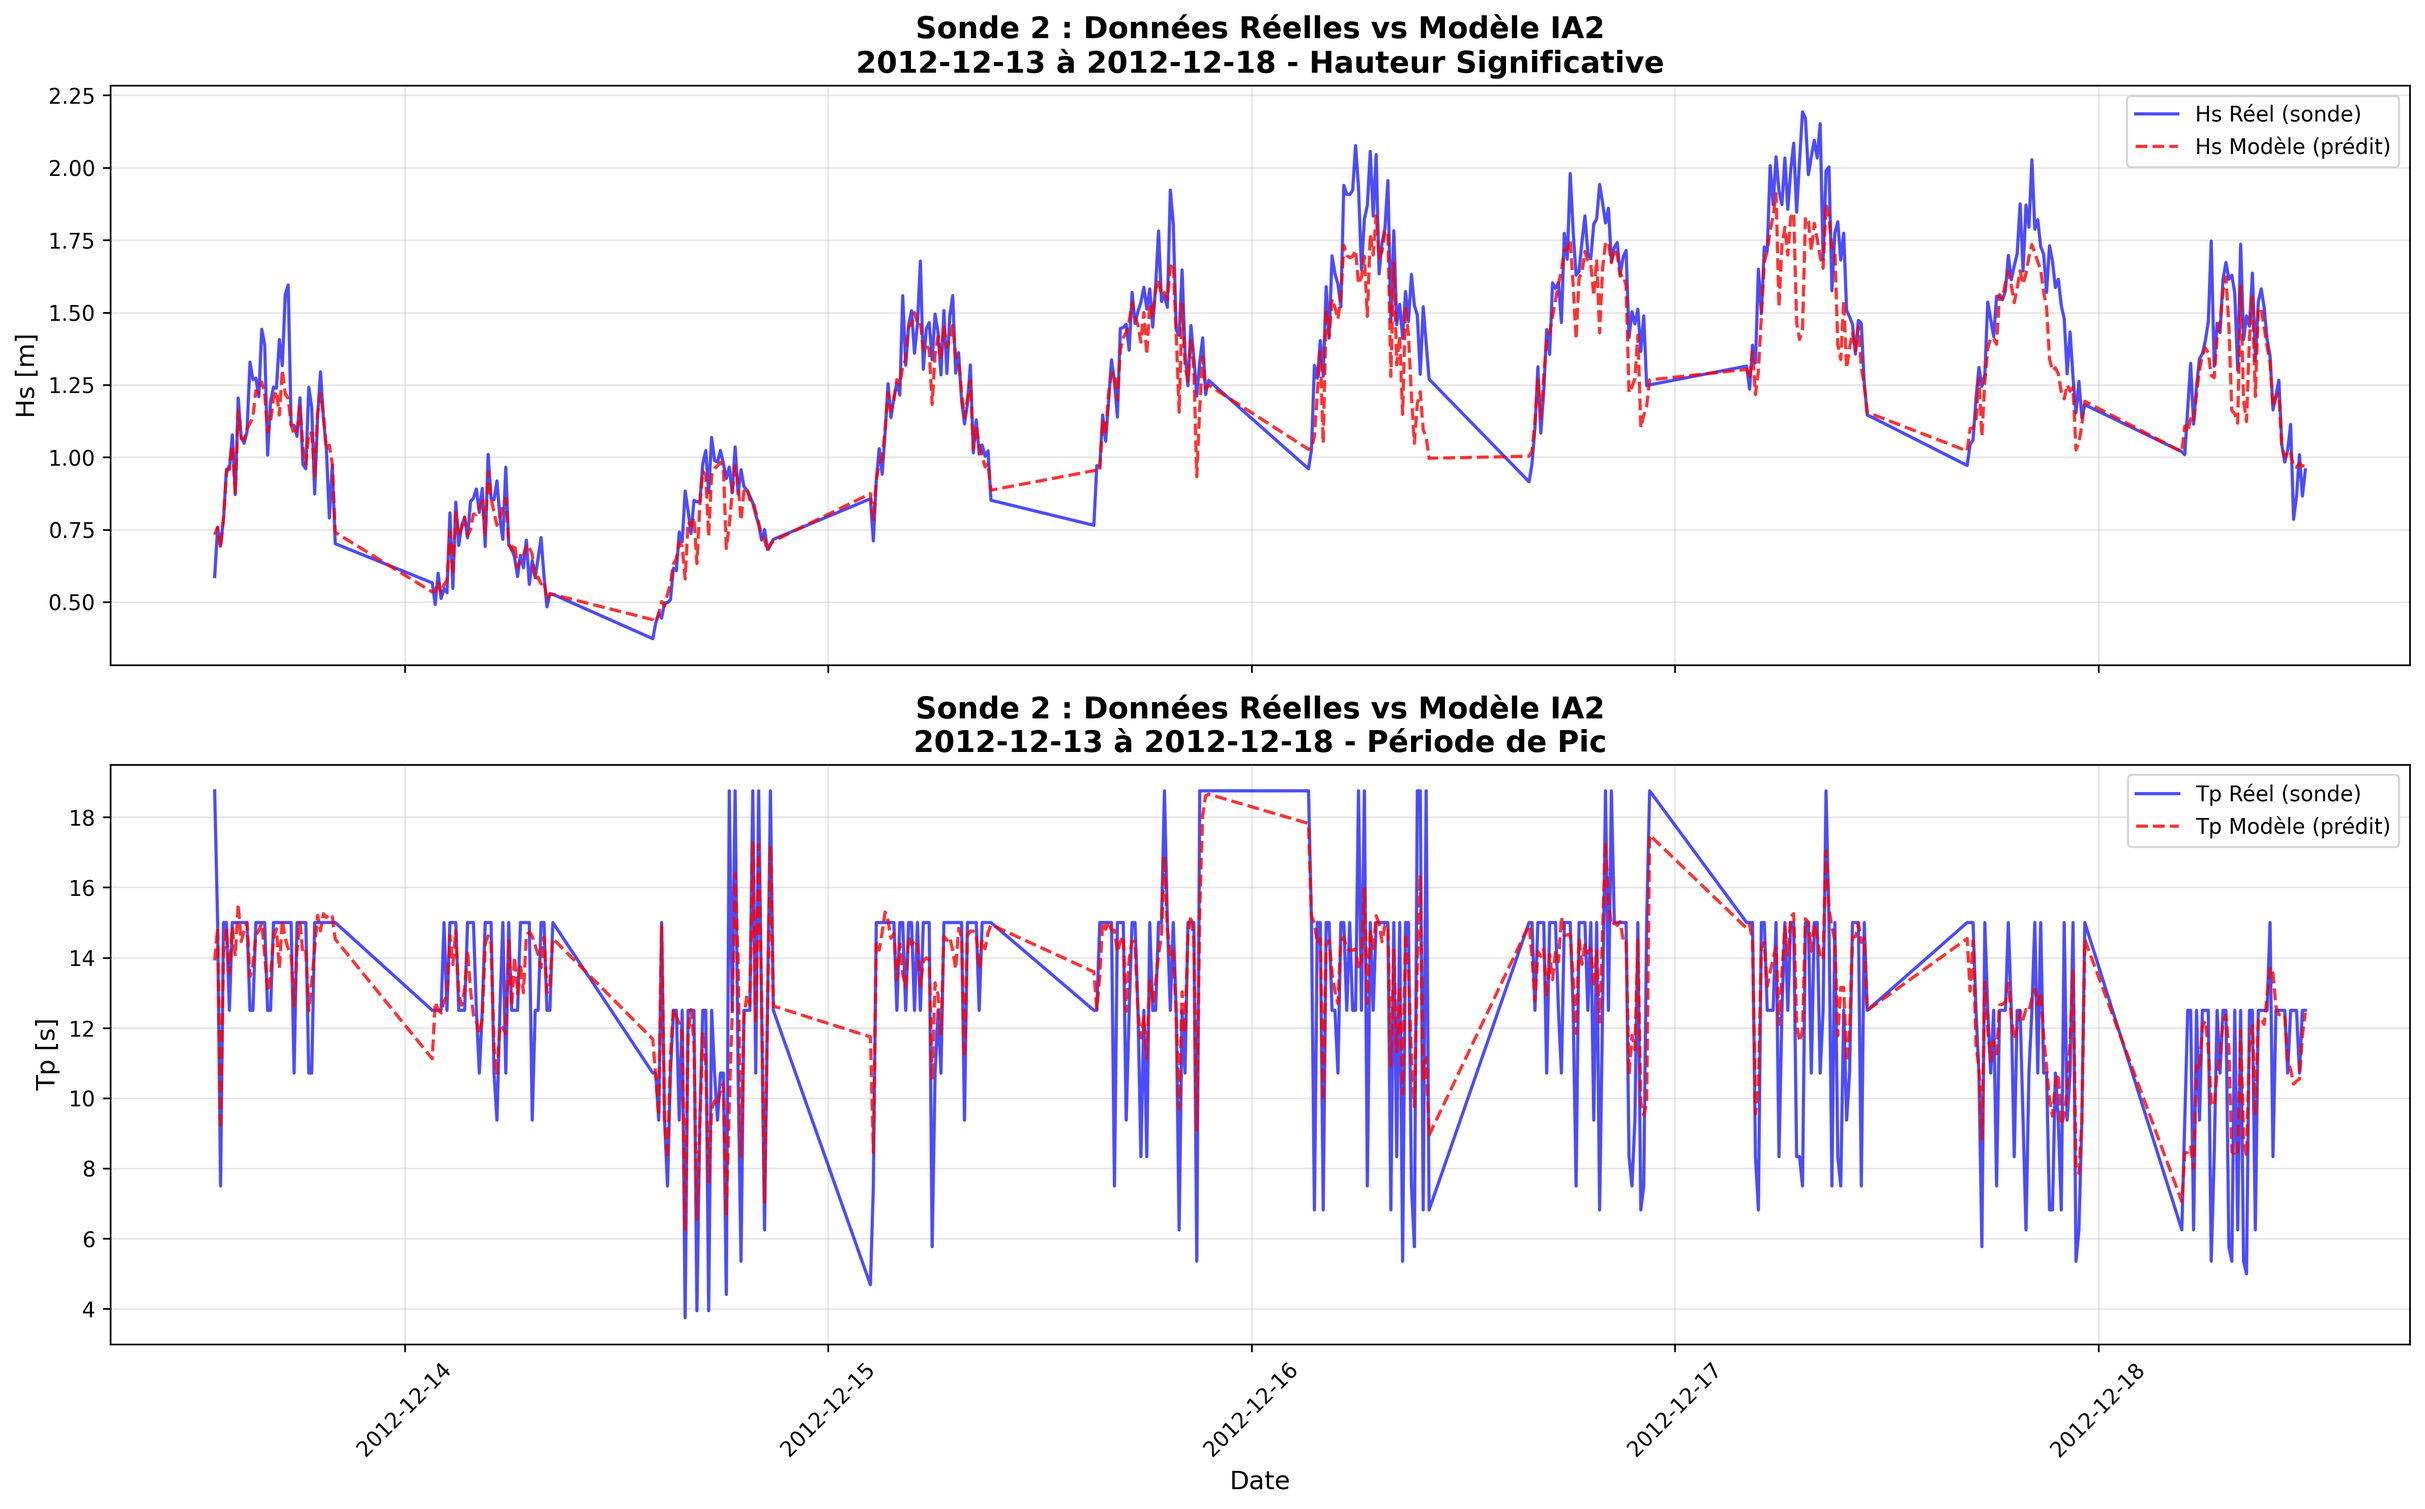
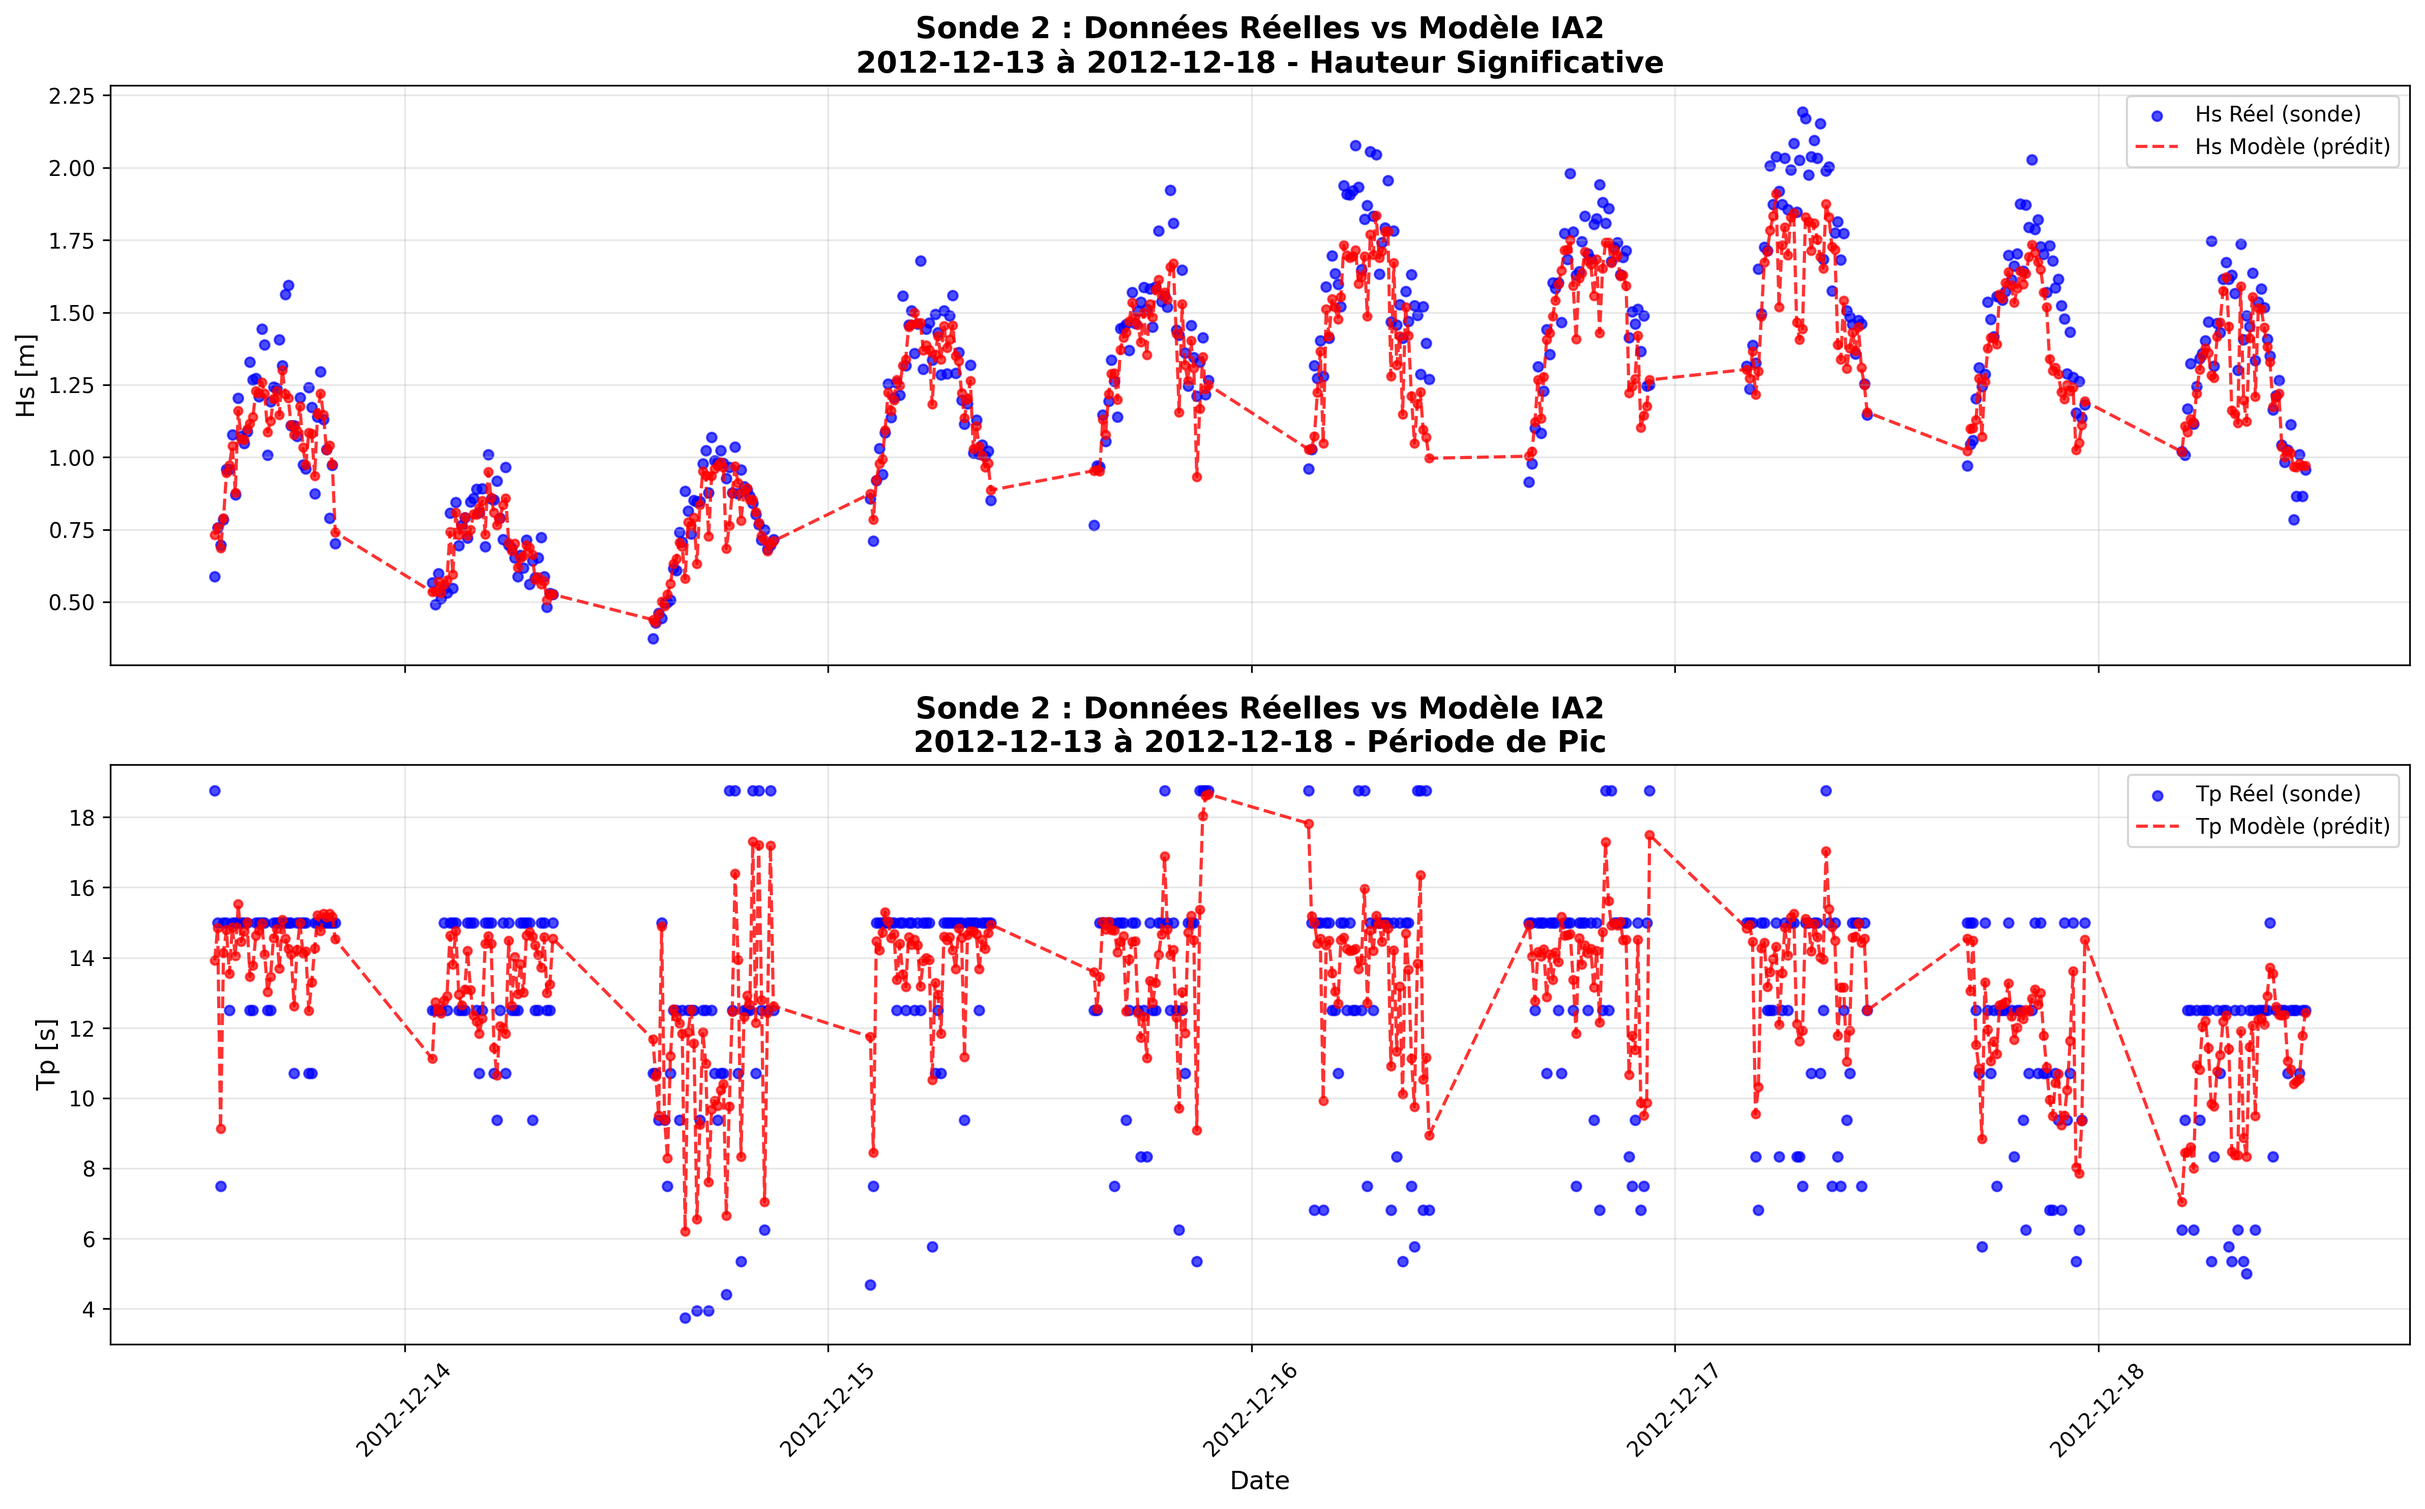
end

diff --git a/visu_sonde_v2_model.py b/visu_sonde_v2_model.py
@@ -156,38 +156,107 @@ def train_or_load_model(X_train, y_train, model_path="model_sonde2_5days.pkl"):
 # =============================================================================
 # ÉTAPE 3 : Visualisation
 # =============================================================================
-
 def plot_comparison(dates, real_Hs, real_Tp, pred_Hs, pred_Tp,
                     title="Sonde 2 : Comparaison Données Réelles vs Modèle (5 jours)",
                     save_path="comparison_sonde2_5days.png"):
     """Crée un graphique comparatif Hs et Tp en fonction du temps."""
+
     fig, axes = plt.subplots(2, 1, figsize=(16, 10), sharex=True)
 
-    # --- Graphique Hs ---
+    # =========================================================================
+    # Graphique Hs
+    # =========================================================================
     ax1 = axes[0]
-    ax1.plot(dates, real_Hs, 'b-', label='Hs Réel (sonde)', alpha=0.7, linewidth=1.5)
-    ax1.plot(dates, pred_Hs, 'r--', label='Hs Modèle (prédit)', alpha=0.8, linewidth=1.5)
+
+    # Données réelles : points uniquement
+    ax1.scatter(
+        dates,
+        real_Hs,
+        color='blue',
+        label='Hs Réel (sonde)',
+        alpha=0.7,
+        s=20
+    )
+
+    # Modèle IA : ligne brisée
+    ax1.plot(
+        dates,
+        pred_Hs,
+        'r--',
+        label='Hs Modèle (prédit)',
+        alpha=0.8,
+        linewidth=1.5
+    )
+
+    # Modèle IA : points
+    ax1.scatter(
+        dates,
+        pred_Hs,
+        color='red',
+        alpha=0.7,
+        s=15
+    )
+
     ax1.set_ylabel('Hs [m]', fontsize=12)
-    ax1.set_title(f'{title} - Hauteur Significative', fontsize=14, fontweight='bold')
+    ax1.set_title(
+        f'{title} - Hauteur Significative',
+        fontsize=14,
+        fontweight='bold'
+    )
     ax1.legend(loc='upper right')
     ax1.grid(True, alpha=0.3)
 
-    # --- Graphique Tp ---
+    # =========================================================================
+    # Graphique Tp
+    # =========================================================================
     ax2 = axes[1]
-    ax2.plot(dates, real_Tp, 'b-', label='Tp Réel (sonde)', alpha=0.7, linewidth=1.5)
-    ax2.plot(dates, pred_Tp, 'r--', label='Tp Modèle (prédit)', alpha=0.8, linewidth=1.5)
+
+    # Données réelles : points uniquement
+    ax2.scatter(
+        dates,
+        real_Tp,
+        color='blue',
+        label='Tp Réel (sonde)',
+        alpha=0.7,
+        s=20
+    )
+
+    # Modèle IA : ligne brisée
+    ax2.plot(
+        dates,
+        pred_Tp,
+        'r--',
+        label='Tp Modèle (prédit)',
+        alpha=0.8,
+        linewidth=1.5
+    )
+
+    # Modèle IA : points
+    ax2.scatter(
+        dates,
+        pred_Tp,
+        color='red',
+        alpha=0.7,
+        s=15
+    )
+
     ax2.set_ylabel('Tp [s]', fontsize=12)
     ax2.set_xlabel('Date', fontsize=12)
-    ax2.set_title(f'{title} - Période de Pic', fontsize=14, fontweight='bold')
+    ax2.set_title(
+        f'{title} - Période de Pic',
+        fontsize=14,
+        fontweight='bold'
+    )
     ax2.legend(loc='upper right')
     ax2.grid(True, alpha=0.3)
 
     plt.xticks(rotation=45)
     plt.tight_layout()
     plt.savefig(save_path, dpi=300, bbox_inches='tight')
-    print(f"Graphique sauvegardé : {save_path}")
-    plt.show()
 
+    print(f"Graphique sauvegardé : {save_path}")
+
+    plt.show()
 
 def plot_scatter_comparison(real_Hs, real_Tp, pred_Hs, pred_Tp,
                             save_path="scatter_sonde2_5days.png"):
@@ -434,5 +503,5 @@ def main():
     print("  - model_sonde2_5days.pkl      : Modèle entraîné (sauvegarde)")
 
 
-if False:
+if True:
     main()

diff --git a/visu_fonction_transfert_sonde2.py b/visu_fonction_transfert_sonde2.py
@@ -248,5 +248,5 @@ def main():
     print("=" * 70)
 
 
-if True:
+if False:
     main()
